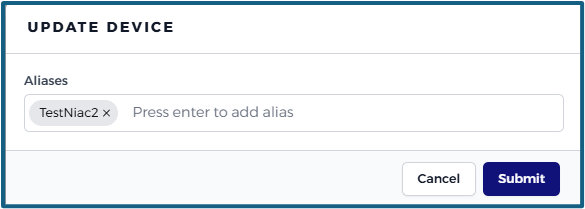
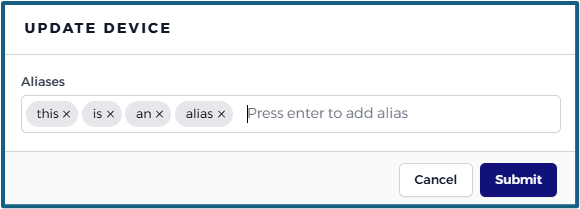
8th of July 2025

diff --git a/rules/groupconfiguration/groupconfiguration.md b/rules/groupconfiguration/groupconfiguration.md
@@ -6,6 +6,30 @@ Group Configuration allows administrators to define and manage policies that con
 
 This modular approach makes it easy to apply consistent settings across similar users or departments, enforce compliance standards, and simplify large-scale management. Each tab below represents a configurable option that can be enabled, disabled, or customized per group.
 
+### Filter Group Configurations
+
+You can search the list of group configurations using the search box at the top of the page. This helps you quickly find and manage the group configuration you're looking for.
+
+- Use the search box to enter keywords and filter the group configuration list.
+
+Next to the search box, there is a filter icon ![](../../images/icons/icon_filter.png ':size=20'). When clicked, it reveals advanced filtering options where you can define additional conditions based on the following three elements:
+
+- **Property**: A dropdown menu where you choose the field to filter on.
+- **Match type**: A dropdown that allows you to select how to match the value (only `equals`).
+- **Value**: Enter or select the value to match, depending on the selected property.
+
+![filter_groupconfig.png](./screenshots/filter_groupconfig.png ':size=400')
+
+To add multiple filters you can press the filter icon ![](../../images/icons/icon_filter.png ':size=20') again and then press the `+` button.
+
+<!-- Once filters are applied:
+- The results are updated to reflect your conditions.
+- Active filters appear at the top of the page.
+- You can remove filters individually by clicking the `X` next to each, or remove all at once by clicking the `Reset Filters` button. -->
+
+> [!INFO]
+> You can refresh the list of users by pressing the refresh icon ![](../../images/icons/icon_reload.png ':size=20') at the top of the page.
+
 <!-- tabs:start -->
 
 ### **WAN GATEWAY**
@@ -177,6 +201,21 @@ When Always On is enabled, the application will launch with the system. Dependin
 1. Enable **Always On** in the *`Jimber SASE Platform`* group settings of the selected group.
 2. Choose between **Forced Mode** or **Autostart Mode**.
 3. Deploy the settings to connected devices.
+
+### **EDR**
+
+_EDR systems continuously monitor activity on endpoints._
+
+EDR stands for Endpoint Detection and Response. It is a security solution focused on monitoring, detecting and responding to threats on endpoints such as computers, laptops and servers. EDR solutions help detect cyberattacks at an early stage and minimize damage by enabling a swift response to suspicious activities.
+
+### **IDS/IPS**
+
+_IDS (Intrusion Detection System) identifies potential intrusions, unauthorized access, or other suspicious activities within a network._
+
+_IPS (Intrusion Prevention System) detects and prevents intrusions, unauthorized access, and other suspicious activities within a network._
+
+
+IDS and IPS are security systems that monitor network traffic for malicious activity. An IDS detects threats and generates alerts, while an IPS not only detects threats but also takes action to stop them.
 
 
 <!-- tabs:end -->

diff --git a/devices/niacs/niacs.md b/devices/niacs/niacs.md
@@ -29,6 +29,7 @@ Once a device is connected, you can see the via DHCP assigned IP address of the 
 > If you're an integrator in need of NIACs, you can either contact your distributor or reach out directly to Jimber via email at security@jimber.io.
 
 ### Create NIAC
+
 > [!WARNING]
 > Creating a NIAC can only be done by super admins of Jimber.
 
@@ -50,6 +51,32 @@ To create a NIAC into the platform, click on the `+ Create new` button located a
 
 <!-- ![group_details_niac.png](/group_details_niac.png ':size=600') -->
 
+### Filter NIACs
+
+You can search the list of NIACs using the search box at the top of the page. This helps you quickly find and manage the NIAC you're looking for.
+
+- Use the search box to enter keywords and filter the NIAC list.
+
+Next to the search box, there is a filter icon ![](../../images/icons/icon_filter.png ':size=20'). When clicked, it reveals advanced filtering options where you can define additional conditions based on the following three elements:
+
+- **Property**: A dropdown menu where you choose the field to filter on.
+- **Match type**: A dropdown that allows you to select how to match the value (`equals` or `contains`).
+- **Value**: Enter or select the value to match, depending on the selected property.
+
+
+![filter_niac.png](./screenshots/filter_niac.png ':size=400')
+
+To add multiple filters you can press the filter icon ![](../../images/icons/icon_filter.png ':size=20') again and then press the `+` button.
+
+<!-- Once filters are applied:
+- The results are updated to reflect your conditions.
+- Active filters appear at the top of the page.
+- You can remove filters individually by clicking the `X` next to each, or remove all at once by clicking the `Reset Filters` button. -->
+
+
+> [!INFO]
+> You can refresh the list of NIACs by pressing the refresh icon ![](../../images/icons/icon_reload.png ':size=20') at the top of the page.
+
 ### Inspect NIAC
 
 Clicking on the corresponding strip of the NIAC opens a new window with more details:
@@ -63,9 +90,12 @@ You can release one of the devices connected to the NIAC by clicking on the red 
 
 - #### Update device
 
-You can delete or add aliases for a device by clicking on the edit icon ![](../../images/icons/icon_edit.png ':size=20') in its row.
+You can add or delete aliases for a device by clicking on the edit icon ![](../../images/icons/icon_edit.png ':size=20') in its row.
 
 ![update_device.png](./screenshots/update_device.png ':size=400')
+
+>[!NOTE]
+> To add an alias, enter the name and press Enter or the spacebar before clicking Submit.
 
 ### Edit NIAC
 

diff --git a/devices/networkcontrollers/networkcontrollers.md b/devices/networkcontrollers/networkcontrollers.md
@@ -10,6 +10,26 @@ A network controller is a networking device that forwards data packets between t
 
 ![network controllers.png](./screenshots/networkcontrollers.png ':size=800')
 
+### Filter Networkcontrollers
+
+You can search the list of networkcontrollers using the search box at the top of the page. This helps you quickly find and manage the networkcontroller you're looking for.
+
+- Use the search box to enter keywords and filter the networkcontroller list.
+
+Next to the search box, there is a filter icon ![](../../images/icons/icon_filter.png ':size=20'). When clicked, it reveals advanced filtering options where you can define additional conditions based on the following three elements:
+
+- **Property**: A dropdown menu where you choose the field to filter on.
+- **Match type**: A dropdown that allows you to select how to match the value (`equals` or `contains`).
+- **Value**: Enter or select the value to match, depending on the selected property.
+
+![filter_nc.png](./screenshots/filter_nc.png ':size=400')
+
+To add multiple filters you can press the filter icon ![](../../images/icons/icon_filter.png ':size=20') again and then press the `+` button.
+
+
+> [!INFO]
+> You can refresh the list of networkcontrollers by pressing the refresh icon ![](../../images/icons/icon_reload.png ':size=20') at the top of the page.
+
 ### Cloud Network Controller (default)
 
 Every company that uses the `Jimber SASE Platform` will have a cloud network controller **added by default**. This network controller ensures that all the company's devices and users, both external and internal, can access the network securely and consistently. The cloud network controller acts as an entry and exit point for network traffic, ensuring everyone can log in and access the necessary resources.

diff --git a/company/users/users.md b/company/users/users.md
@@ -69,18 +69,17 @@ You can search the list of users using the search box at the top of the page. Th
 Next to the search box, there is a filter icon ![](../../images/icons/icon_filter.png ':size=20'). When clicked, it reveals advanced filtering options where you can define additional conditions based on the following three elements:
 
 - **Property**: A dropdown menu where you choose the field to filter on.
-- **Match type**: A dropdown that allows you to select how to match the value (e.g. `equals`, `contains`, etc.).
+- **Match type**: A dropdown that allows you to select how to match the value (`equals` or `contains`).
 - **Value**: Enter or select the value to match, depending on the selected property.
 
+![filter_user.png](./screenshots/filter_user.png ':size=400')
 
-![filter_user.png](./screenshots/filter_user.png ':size=300')
+To add multiple filters you can press the filter icon ![](../../images/icons/icon_filter.png ':size=20') again and then press the `+` button.
 
-You can press the `+` button to add multiple filters.
-
-Once filters are applied:
+<!-- Once filters are applied:
 - The results are updated to reflect your conditions.
 - Active filters appear at the top of the page.
-- You can remove filters individually by clicking the `X` next to each, or remove all at once by clicking the `Reset Filters` button.
+- You can remove filters individually by clicking the `X` next to each, or remove all at once by clicking the `Reset Filters` button. -->
 
 > [!INFO]
 > You can refresh the list of users by pressing the refresh icon ![](../../images/icons/icon_reload.png ':size=20') at the top of the page.

diff --git a/rules/scripts/scripts.md b/rules/scripts/scripts.md
@@ -48,15 +48,15 @@ You can search the list of Scripts using the search box at the top of the page. 
 Next to the search box, there is a filter icon ![](../../images/icons/icon_filter.png ':size=20'). When clicked, it reveals advanced filtering options where you can define additional conditions based on the following three elements:
 
 - **Property**: A dropdown menu where you choose the field to filter on.
-- **Match type**: A dropdown that allows you to select how to match the value (e.g. `equals`, `contains`, etc.).
+- **Match type**: A dropdown that allows you to select how to match the value (`equals` or `contains`).
 - **Value**: Enter or select the value to match, depending on the selected property.
 
-You can press the `+` button to add multiple filters.
+![filter_scripts.png](./screenshots/filter_scripts.png ':size=400')
 
-Once filters are applied:
-- The results are updated to reflect your conditions.
-- Active filters appear at the top of the page.
-- You can remove filters individually by clicking the `X` next to each, or remove all at once by clicking the `Reset Filters` button.
+To add multiple filters you can press the filter icon ![](../../images/icons/icon_filter.png ':size=20') again and then press the `+` button.
+
+> [!INFO]
+> You can refresh the list of users by pressing the refresh icon ![](../../images/icons/icon_reload.png ':size=20') at the top of the page.
 
 
 ### User Device Scripts Details

diff --git a/devices/servers/servers.md b/devices/servers/servers.md
@@ -167,6 +167,8 @@ Next to the search box, there is a filter icon ![](../../images/icons/icon_filte
 - **Match type**: A dropdown that allows you to select how to match the value (`equals`or `contains`).
 - **Value**: Enter or select the value to match, depending on the selected property.
 
+![filter_server.png](./screenshots/filter_server.png ':size=400')
+
 To add multiple filters you can press the filter icon ![](../../images/icons/icon_filter.png ':size=20') again and then press the `+` button.
 
 <!-- Once filters are applied:
@@ -177,12 +179,16 @@ To add multiple filters you can press the filter icon ![](../../images/icons/ico
 > [!INFO]
 > You can refresh the list of servers by pressing the refresh icon ![](../../images/icons/icon_reload.png ':size=20') at the top of the page.
 
+### Tags
+
+Tags are added while creating or editing the server.
+
 You can review the used **Tags** by pressing the `Tags`button at the top of the page. Here you can also delete any used tags by clicking on the delete icon ![](../../images/icons/icon_delete.png ':size=20') in their row.
 
 ![tags.png](./screenshots/tags.png ':size=500')
 
 > [!WARNING]
-> Deleting a tag permanently removes all uses of it. You will not receive a warning message before deletion. 
+> Deleting a tag permanently removes all use of it. You will not receive a warning message before deletion. 
 
 ### Server Details
 

diff --git a/devices/nativedevices/nativedevices.md b/devices/nativedevices/nativedevices.md
@@ -46,6 +46,25 @@ Clicking on the corresponding strip of a device opens a detailed view with addit
 
 ![details_native.png](./screenshots/details_native.png ':size=800')
 
+### Filter Native Devices
+
+You can search the list of native devices using the search box at the top of the page. This helps you quickly find and manage the native device you're looking for.
+
+- Use the search box to enter keywords and filter the native device list.
+
+Next to the search box, there is a filter icon ![](../../images/icons/icon_filter.png ':size=20'). When clicked, it reveals advanced filtering options where you can define additional conditions based on the following three elements:
+
+- **Property**: A dropdown menu where you choose the field to filter on.
+- **Match type**: A dropdown that allows you to select how to match the value (`equals`or `contains`).
+- **Value**: Enter or select the value to match, depending on the selected property.
+
+![filter_nd.png](./screenshots/filter_nd.png ':size=400')
+
+To add multiple filters you can press the filter icon ![](../../images/icons/icon_filter.png ':size=20') again and then press the `+` button.
+
+> [!INFO]
+> You can refresh the list of native devices by pressing the refresh icon ![](../../images/icons/icon_reload.png ':size=20') at the top of the page.
+
 
 ### Edit a Native Device
   

diff --git a/devices/userdevices/userdevices.md b/devices/userdevices/userdevices.md
@@ -215,6 +215,8 @@ Next to the search box, there is a filter icon ![](../../images/icons/icon_filte
 - **Match type**: A dropdown that allows you to select how to match the value (`equals`or `contains`).
 - **Value**: Enter or select the value to match, depending on the selected property.
 
+![filter_userdevice.png](./screenshots/filter_userdevice.png ':size=400')
+
 To add multiple filters you can press the filter icon ![](../../images/icons/icon_filter.png ':size=20') again and then press the `+` button.
 
 <!-- Once filters are applied:
